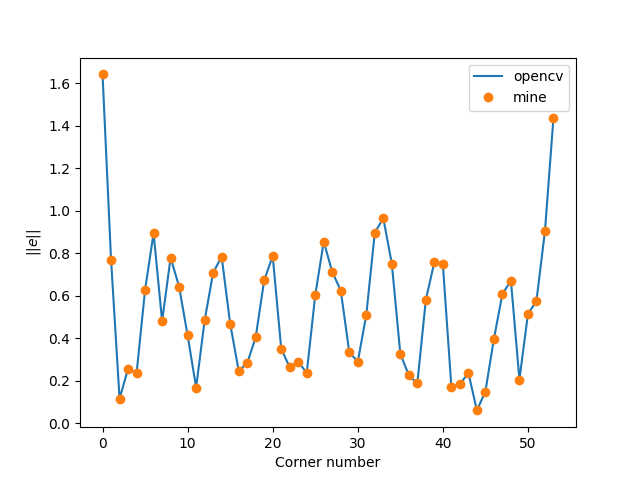
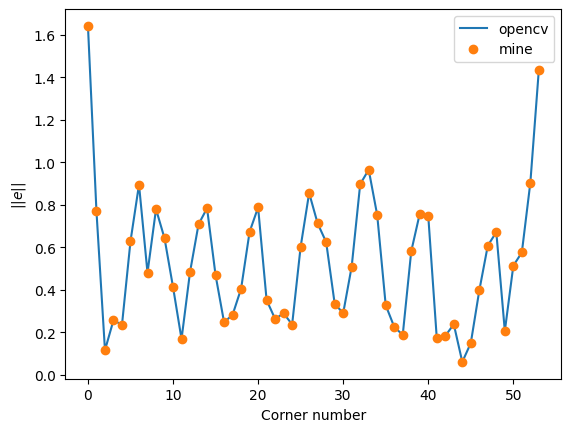
intrinsic and extrinsic obtained.

Changed region(s): [[0.0, 0.0301, 0.9825, 0.9931], [0.0595, 0.0602, 0.1191, 0.1204]]

diff --git a/gethomographies.py b/gethomographies.py
@@ -344,7 +344,148 @@ def homography_compare(wp, ip):
 
         Errs[n] = (cv2_E, opt_E)
 
-    return Errs, cv2_ip, opt_ip
+    return Errs, cv2_ip, opt_ip, cv2_H, opt_H
+
+def get_camera_intrinsic(Hs, gamma=True):
+    """Using Zhang's technique, obtain the intrinsic parameters of a camera.
+
+    Parameters
+    ----------
+
+    Returns
+    -------
+    A: ndarray
+        A 3x3 ndarray.
+    """
+
+    M = len(Hs) # The number of images.
+    A = np.zeros((3,3), dtype=np.float64)
+    V = np.zeros((2*M,6), dtype=np.float64)
+    for m, H in enumerate(Hs):
+
+        V[2*m  ] = vpq(H,0,1)
+        V[2*m+1] = vpq(H,0,0) - vpq(H,1,1)
+
+    U, S, Vh = np.linalg.svd(V)
+    b = Vh[np.argmin(S)]
+
+    (B0, B1, B2, B3, B4, B5) = b
+    if gamma is False: B1 = 0
+
+    w = B0*B2*B5 - B5*B1**2 - B0*B4**2 + 2*B1*B3*B4 - B2*B3**2
+    d = B0*B2 - B1**2
+    alpha = np.sqrt(w/(d*B0))
+    beta = np.sqrt(w*B0/(d**2))
+    gamma = B1*np.sqrt(w/(B0*d**2))
+    uc = (B1*B4 - B2*B3)/d
+    vc = (B1*B3 - B0*B4)/d
+
+    """
+    else:
+
+        V = np.zeros((2*M,5), dtype=np.float64)
+        for m, H in enumerate(Hs):
+
+            V[2*m  ] = vpq(H,0,1,gamma)
+            V[2*m+1] = vpq(H,0,0,gamma) - vpq(H,1,1,gamma)
+
+        U, S, Vh = np.linalg.svd(V)
+        b = Vh[np.argmin(S)]
+
+        (B0, B2, B3, B4, B5) = b
+        #if gamma is False: B1 = 0
+
+        w = B0*B2*B5 - B0*B4**2 - B2*B3**2
+        d = B0*B2
+        alpha = np.sqrt(w/(d*B0))
+        beta = np.sqrt(w*B0/(d**2))
+        gamma = 0
+        uc = (-B2*B3)/d
+        vc = (-B0*B4)/d
+    """
+
+    A[0,0] = alpha
+    A[0,1] = gamma
+    A[0,2] = uc
+    A[1,1] = beta
+    A[1,2] = vc
+    A[2,2] = 1
+
+    return A
+
+def vpq(H, p, q):
+
+    v = np.zeros(6, dtype=np.float64)
+    v[0] = H[0,p]*H[0,q]
+    v[1] = H[0,p]*H[1,q] + H[1,p]*H[0,q]
+    v[2] = H[1,p]*H[1,q]
+    v[3] = H[2,p]*H[0,q] + H[0,p]*H[2,q]
+    v[4] = H[2,p]*H[1,q] + H[1,p]*H[2,q]
+    v[5] = H[2,p]*H[2,q]
+
+    return v
+
+def get_extrinsics(A, Hs):
+
+    M = len(Hs) # The number of images.
+    Ws = []
+    Rs = []
+    Ts = []
+    W = np.zeros((3,4), dtype=np.float64)
+
+    for m, H in enumerate(Hs):
+
+        W, R, T = estimate_view_transform(A,H)
+        Ws.append(W)
+        Rs.append(R)
+        Ts.append(T)
+
+    return Ws, Rs, Ts
+
+def estimate_view_transform(A,H):
+
+    h0 = H[:,0] 
+    h1 = H[:,1] 
+    h2 = H[:,2] 
+    
+    Q = np.zeros((3,3), dtype=np.float64)
+
+    invA = np.linalg.inv(A)
+    invAh0 = np.dot(invA, h0)
+    invAh1 = np.dot(invA, h1)
+    invAh2 = np.dot(invA, h2)
+
+    kappa = 1/np.linalg.norm(invAh0)
+    r0 = kappa * invAh0
+    r1 = kappa * invAh1
+    r2 = np.cross(r0, r1)
+    T = kappa * invAh2
+
+    Q[:,0] = r0
+    Q[:,1] = r1
+    Q[:,2] = r2
+
+    U, S ,Vh = np.linalg.svd(Q)
+    R = np.dot(U, Vh)
+
+    W = np.concatenate((R,T[:,None]), axis=1)
+
+    return W, R, T
+
+def to_rotation_matrix(rho):
+
+    rho = np.squeeze(rho)
+    theta = np.linalg.norm(rho)
+    rhohat = rho / theta
+
+    W = np.zeros((3,3), dtype=np.float64)
+    W[0] = (0, -rhohat[0], rhohat[1])
+    W[1] = (rhohat[2], 0, -rhohat[0])
+    W[2] = (-rhohat[1], rhohat[0], 0)
+
+    R = np.identity(3) + W*np.sin(theta) + np.dot(W, W) * (1-np.cos(theta))
+
+    return R
 
 if __name__ == '__main__':
 
@@ -365,26 +506,33 @@ if __name__ == '__main__':
 
     Hs = get_homographies(wps, ips)
 
-    Errs0, cv2_ip0, opt_ip0 = homography_compare(wps[0], ips[0])
+    Errs0, cv2_ip0, opt_ip0, cv2_H0, opt_H0 = homography_compare(wps[0], ips[0])
 
     df = pd.DataFrame(Errs0, columns=['opencv', 'mine'])
-    print(df)
     ax = df.plot(style=['-', 'o'])
     ax.set_xlabel('Corner number')
     ax.set_ylabel(r'$\|\|e\|\|$')
-    ax.get_figure().savefig('error.png')
+    ax.get_figure().savefig('error.png', bbox_inches='tight')
+
+    #A_gam0 = get_camera_intrinsic(Hs, gamma=False)
+    #Ws_gam0, Rs_gam0, Ts_gam0 = get_extrinsics(A_gam0, Hs)
+    #print(Rs_gam0[0])
+
+    A = get_camera_intrinsic(Hs, gamma=True)
+    Ws, Rs, Ts = get_extrinsics(A, Hs)
+    print(Ws[0])
+    np.savetxt('my_extr.txt', Ws[0])
     
-    """
     ret, intr, dist, rvecs, tvecs = cv2.calibrateCamera(wps, ips, (h_npixels, w_npixels), None, None)
+    rot_cv, jac_rot = cv2.Rodrigues(rvecs[0])
+    print(rot_cv)
+    print(tvecs[0])
+    np.savetxt('cv2_rot.txt', rot_cv)
 
-    r = R.from_mrp(np.squeeze(rvecs[0]))
-    rot = r.as_matrix()
-    extr = np.zeros((3,3), dtype=np.float32)
-    extr[:,:2] = rot[:,:2]
-    extr[:,2] = np.squeeze(tvecs[0])
-    cv2_H0 = np.dot(intr,extr)
-    cv2_H0 /= cv2_H0[2,2]
+    #print(cv2_H0)
+    #print(Hs[0])
 
+    """
     print("dist : \n")
     print(dist)
     print("rvecs : \n")
